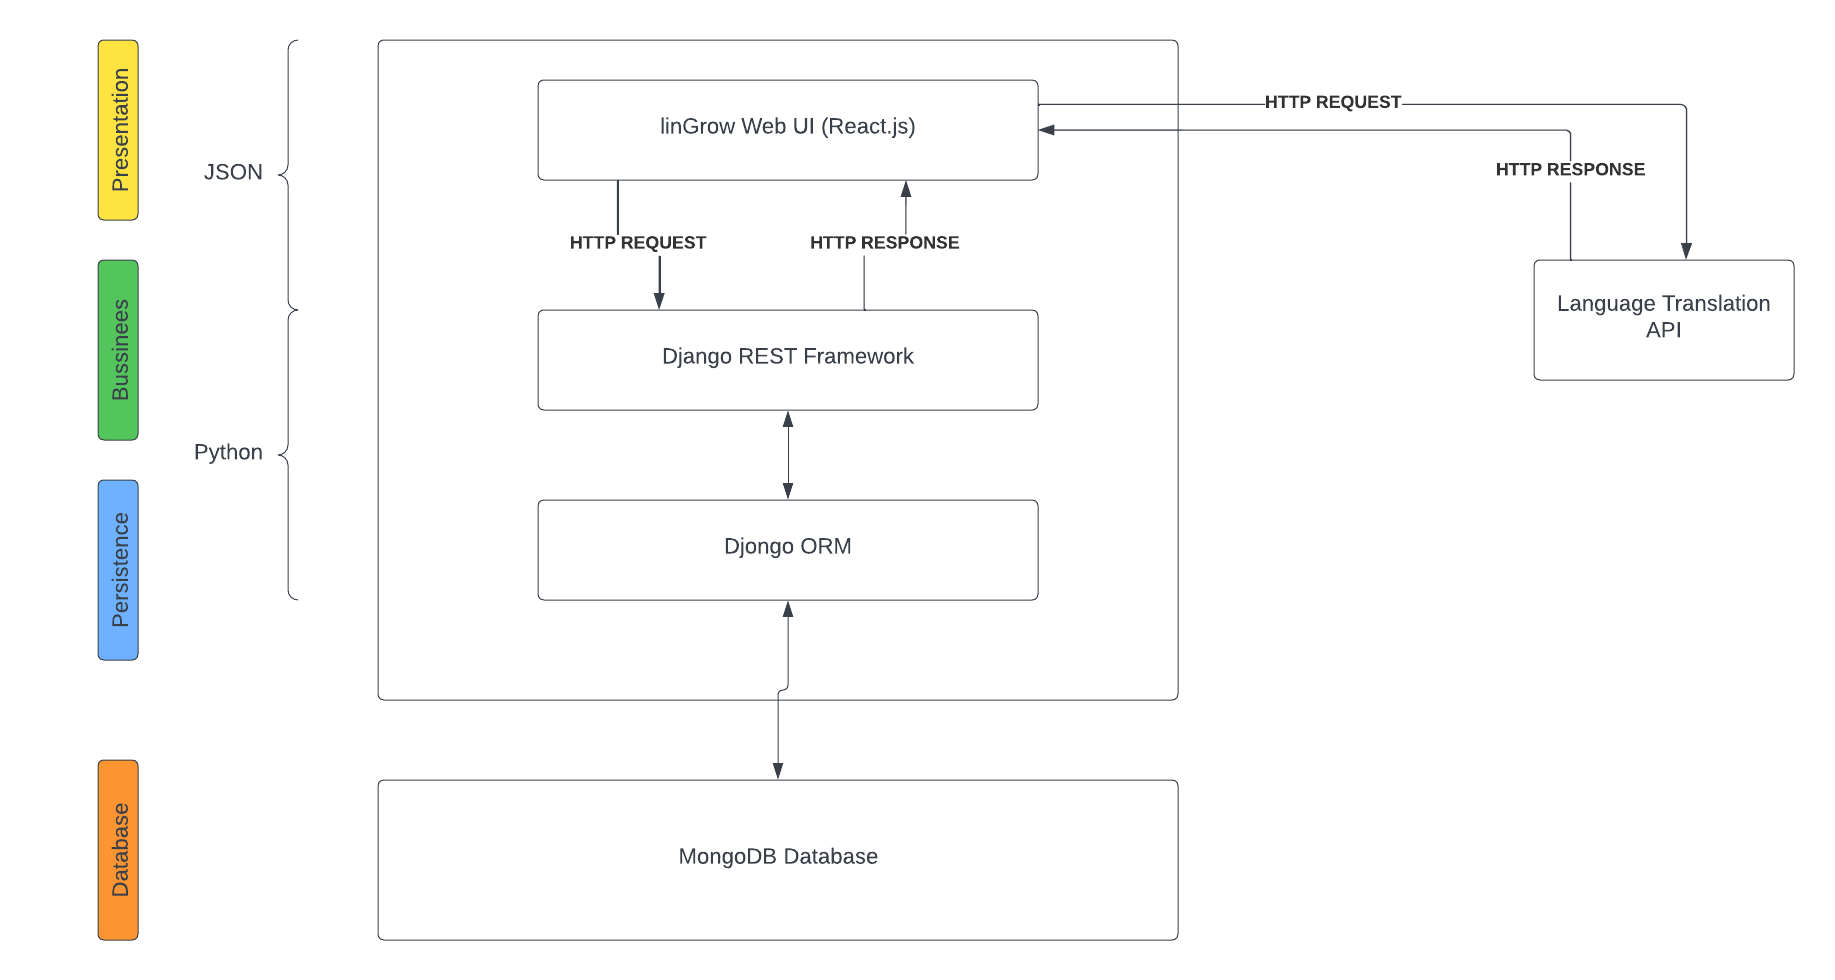
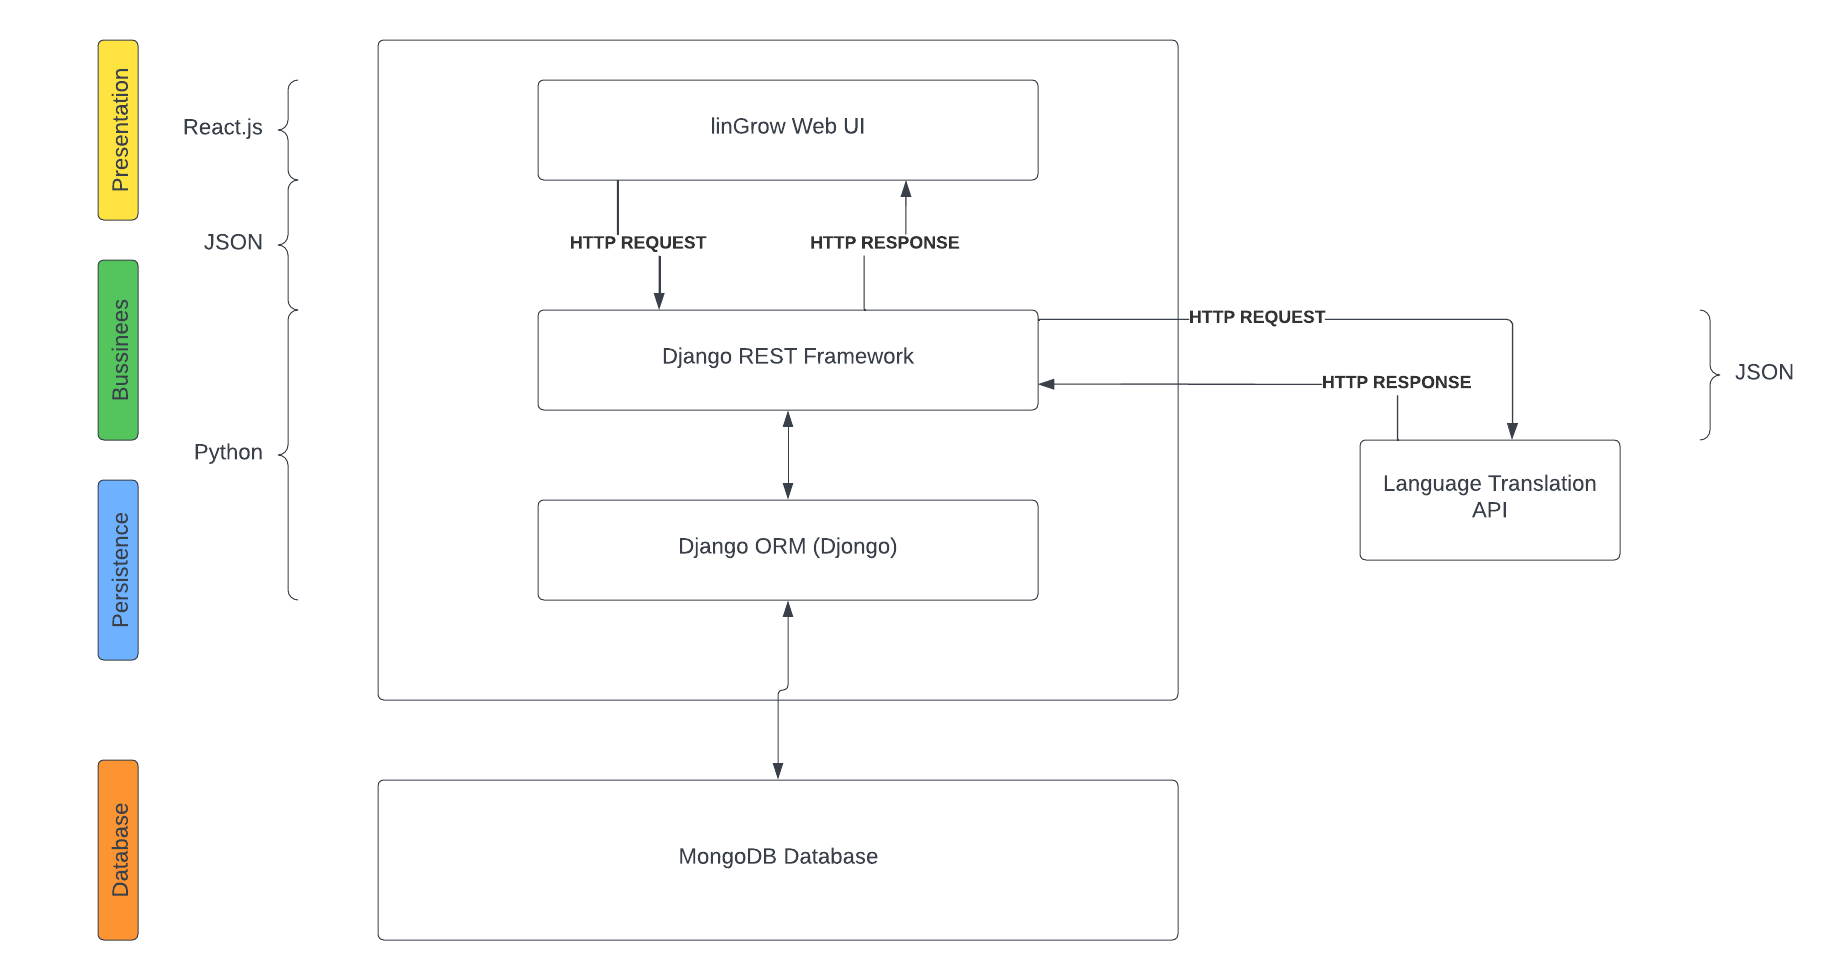
Update Docs
1) Update High Level Architecture
2) Update list of technical resources
3) Added User Stories to MoSCoW
4) Mapped User Stories to GitHub Issues

diff --git a/docs/index.md b/docs/index.md
@@ -37,7 +37,7 @@
 
 ## User Stories
 
-### User Stories 1 - Admin School Management
+### User Story 1 - Admin School Management [GitHub Link](https://github.com/UAlberta-CMPUT401/lingrow/issues/3)
 
 > **As** an admin, **I want** to be able to manage schools, **so that** I can add/delete/update schools.
 >
@@ -48,7 +48,7 @@
 > 3. Admin can edit a school.
 > 4. Non-Admin users cannot add/delete/edit schools.
 
-### User Stories 2 - Admin User Management
+### User Story 2 - Admin User Management [GitHub Link](https://github.com/UAlberta-CMPUT401/lingrow/issues/5)
 
 > **As** an admin, **I want** to be able to manage users, **so that** I can add/delete/update users.
 >
@@ -59,9 +59,9 @@
 > 3. Admin can edit a user.
 > 4. Non-Admin users cannot add/delete/edit users.
 
-### User Stories 3 - Admin Messaging
+### User Story 3 - Admin Messaging [GitHub Link](https://github.com/UAlberta-CMPUT401/lingrow/issues/8)
 
-> **As** an aAdmin, **I want** to be able to send mass messages to any group of users, **so that** I can inform them about updates to the app.
+> **As** an admin, **I want** to be able to send mass messages to any group of users, **so that** I can inform them about updates to the app.
 >
 > **Acceptance Tests:**
 >
@@ -70,7 +70,7 @@
 > 3. Message sent by Admin is marked as an Admin Message.
 > 4. Non-Admins cannot send messages marked as Admin messages.
 
-### User Stories 4 - Admin Group Users
+### User Story 4 - Admin Group Users [GitHub Link](https://github.com/UAlberta-CMPUT401/lingrow/issues/8)
 
 > **As** an Admin, **I want** to be able to group users, **so that** I can send messages to select groups.
 >
@@ -83,7 +83,7 @@
 > 5. Admin can delete a group they created.
 > 6. Non-admin users cannot create groups in the same way.
 
-### User Stories 5 - User Account Creation
+### User Story 5 - User Account Creation [GitHub Link](https://github.com/UAlberta-CMPUT401/lingrow/issues/15)
 
 > **As** a User, **I want** to be able to create an account, **so that** I can log into the web application and use its features.
 >
@@ -93,7 +93,7 @@
 > 2. User can sign in with their created credentials.
 > 3. User cannot create an account with the already used credentials.
 
-### User Stories 6 - User Logout
+### User Story 6 - User Logout [GitHub Link](https://github.com/UAlberta-CMPUT401/lingrow/issues/18)
 
 > **As** a User, **I want** to be able to logout of the web application, **so that** I can keep my information private and secure.
 >
@@ -102,7 +102,7 @@
 > 1. User can log out of the application.
 > 2. User when logged out cannot access their user info.
 
-### User Stories 7 - User Password Reset
+### User Story 7 - User Password Reset [GitHub Link](https://github.com/UAlberta-CMPUT401/lingrow/issues/17)
 
 > **As** a User, **I want** to be able reset my password, **so that** I am still able to access my account if I forgot my password.
 >
@@ -112,7 +112,7 @@
 > 2. User upon receiving a password reset prompt, can change it.
 > 3. User must use new password to sign in aftewards.
 
-### User Stories 8 - Non-Admin Message Sending
+### User Story 8 - Non-Admin Message Sending [GitHub Link](https://github.com/UAlberta-CMPUT401/lingrow/issues/12)
 
 > **As** a Parent/Teacher/Researcher **I want** to be able to send messages, **so that** I can communicate with others within the application.
 >
@@ -121,7 +121,7 @@
 > 1. User can compose a message to another selected user.
 > 2. User can send a composed message.
 
-### User Stories 9 - Non-Admin Message Reception
+### User Story 9 - Non-Admin Message Reception [GitHub Link](https://github.com/UAlberta-CMPUT401/lingrow/issues/14)
 
 > **As** a Parent/Teacher/Researcher **I want** to be able to receive messages, **so that** I can communicate with others within the application.
 >
@@ -131,7 +131,7 @@
 > 2. User can view messages received.
 > 3. User can compose a message to the sender of a received message.
 
-### User Stories 10 - Teacher/Researcher Search Parents
+### User Story 10 - Teacher/Researcher Search Parents [GitHub Link](https://github.com/UAlberta-CMPUT401/lingrow/issues/7)
 
 > **As** a Teacher/Researcher **I want** to be able to search for parents within a school, **so that** I can identify parents I associate with.
 >
@@ -140,7 +140,7 @@
 > 1. Teacher/Researcher can view parents in their selected school. 
 > 2. Teacher/Researcher can search their selected school for specific parents.
 
-### User Stories 11 - Teacher/Researcher Group Parents
+### User Story 11 - Teacher/Researcher Group Parents [GitHub Link](https://github.com/UAlberta-CMPUT401/lingrow/issues/21)
 
 > **As** a Teacher/Researcher **I want** to be able to create a group of parents based on their children's classroom, **so that** so that I can organize parents based on their children's classroom.
 >
@@ -151,7 +151,7 @@
 > 3. Teacher/Researcher can edit a group they created.
 > 4. Teacher/Researcher can delete a group they created.
 
-### User Stories 12 - Teacher/Researcher Important Flag
+### User Story 12 - Teacher/Researcher Important Flag [GitHub Link](https://github.com/UAlberta-CMPUT401/lingrow/issues/20)
 
 > **As** a Teacher/Researcher **I want** to be able to mark messages as important, **so that** parents understand when information I am communicating is critical.
 >
@@ -160,16 +160,16 @@
 > 1. Teacher/Researcher can mark a message as important before sending it. 
 > 2. Receiver of that message can see it marked as important.
 
-### User Stories 13 - Teacher/Researcher Mass Messaging
+### User Story 13 - Teacher/Researcher Mass Messaging [GitHub Link](https://github.com/UAlberta-CMPUT401/lingrow/issues/22)
 
-> **As** a Teacher/Researcher **I want** to be able to send mass messages to groups of parents, **so that** I can c.
+> **As** a Teacher/Researcher **I want** to be able to send mass messages to groups of parents, **so that** I can convey messagaes related toa group at once.
 >
 > **Acceptance Tests:**
 >
 > 1. Teacher/Researcher can send a message to multiple users at a time. 
 > 2. Receivers all receive the same message sent by the teacher/researcher.
 
-### User Stories 14 - Researcher Search Teachers
+### User Story 14 - Researcher Search Teachers [GitHub Link](https://github.com/UAlberta-CMPUT401/lingrow/issues/10)
 
 > **As** a Researcher **I want** to be able to search for teachers within a school, **so that** I can identify teachers I associate with.
 >
@@ -178,7 +178,7 @@
 > 1. Researcher can view teachers in their selected school. 
 > 2. Researcher can search their selected school for specific teachers.
 
-### User Stories 15 - Researcher Group Teachers
+### User Story 15 - Researcher Group Teachers [GitHub Link](https://github.com/UAlberta-CMPUT401/lingrow/issues/47)
 
 > **As** a Researcher **I want** to be able to create a group of teachers, **so that** so that I can organize multiple teachers I am working with.
 >
@@ -189,7 +189,7 @@
 > 3. Researcher can edit a group they created.
 > 4. Researcher can delete a group they created.
 
-### User Stories 16 - Parent App Translation
+### User Story 16 - Parent App Translation [GitHub Link](https://github.com/UAlberta-CMPUT401/lingrow/issues/4)
 
 > **As** a Parent **I want** to be able to translate text within the app to a more familiar language, **so that** I am able to read and understand the information the application is communicating to me.
 >
@@ -198,7 +198,7 @@
 > 1. Parent can without needing to read text select another lanaguage to translate the application to. 
 > 2. All intentionally readable text is translated to a specific language when selected.
 
-### User Stories 17 - User Message Translation
+### User Story 17 - User Message Translation [GitHub Link](https://github.com/UAlberta-CMPUT401/lingrow/issues/2)
 
 > **As** a User **I want** to be able to translate received messages to a language I am more familiar with, **so that** I am able to read and understand the received message better.
 >
@@ -207,7 +207,7 @@
 > 1. User can when viewing a message select another language for it to be translated into. 
 > 2. Message is translated when another language is selected.
 
-### User Stories 18 - Parent Pictograms
+### User Story 18 - Parent Pictograms [GitHub Link](https://github.com/UAlberta-CMPUT401/lingrow/issues/13)
 
 > **As** a Parent **I want** to be able to see pictograms to help me identify important information, **so that** I can more easily understand the associated concepts.
 >
@@ -216,7 +216,7 @@
 > 1. Pictograms are visible in the application to parents. 
 > 2. Pictograms are placed with their relevant activities/information.
 
-### User Stories 19 - Parent Speech to Text
+### User Story 19 - Parent Speech to Text [GitHub Link](https://github.com/UAlberta-CMPUT401/lingrow/issues/6)
 
 > **As** a Parent **I want** to be able to use Speech-to-Text, **so that** I can compose a message without the need for understanding written english grammar.
 >
@@ -226,7 +226,7 @@
 > 2. Typing is disabled while Speech-to-Text is active.
 > 3. Speech is properly interpreted by the program.
 
-### User Stories 20 - Parent Text to Speech
+### User Story 20 - Parent Text to Speech [GitHub Link](https://github.com/UAlberta-CMPUT401/lingrow/issues/9)
 
 > **As** a Parent **I want** to be able to use Text-to-Speech, **so that** I can understand written information as though it was spoken.
 >
@@ -235,7 +235,7 @@
 > 1. Text-to-Speech is an option for all text within the application.
 > 2. Parents are able to activate the Text-to-Speech for whichever text they would like to listen to.
 
-### User Stories 21 - Parent Voicemail Messaging
+### User Story 21 - Parent Voicemail Messaging [GitHub Link](https://github.com/UAlberta-CMPUT401/lingrow/issues/19)
 
 > **As** a Parent **I want** to be able to send and receive voicemail through messages, **so that** I can communicate with audio instead of text.
 >
@@ -244,7 +244,7 @@
 > 1. Parents able to send voice recordings through messages.
 > 2. Parents are able to receive voice recordings through messages.
 
-### User Stories 22 - Parent Video Call Messaging
+### User Story 22 - Parent Video Call Messaging [GitHub Link](https://github.com/UAlberta-CMPUT401/lingrow/issues/16)
 
 > **As** a Parent **I want** to be able to send and receive video messages, **so that** I can communicate with non-verbal/textual cues alongside verbal.
 >
@@ -253,7 +253,7 @@
 > 1. Parents able to send videos through messages.
 > 2. Parents are able to receive videos through messages.
 
-### User Stories 23 - Parent English Learning Activities
+### User Story 23 - Parent English Learning Activities [GitHub Link](https://github.com/UAlberta-CMPUT401/lingrow/issues/11)
 
 > **As** a Parent **I want** to be able to view and English Learning Activities, **so that** I can support language development within my family.
 >
@@ -262,9 +262,9 @@
 > 1. English Learning Activities are provided within the application for parents.
 > 2. These English Learning Activities are available in multiple languages.
 
-### User Stories 24 - Parent Simple English
+### User Story 24 - Parent Simple English [GitHub Link](https://github.com/UAlberta-CMPUT401/lingrow/issues/48)
 
-> **As** a Parent **I want** the application to be written in simple english phrases, **so that** when I translate the applcation there are as few translation errors as possible.
+> **As** a Parent **I want** the application to be written in simple english phrases, **so that** when I translate the application there are as few translation errors as possible.
 >
 > **Acceptance Tests:**
 >
@@ -272,37 +272,72 @@
 > 2. The application does not use complex phrases or words.
 > 3. The application does not use english sayings or idioms.
 
+### User Story 25 - Invite Users [GitHub Link](https://github.com/UAlberta-CMPUT401/lingrow/issues/49)
+> **As** a Teacher **I want** to send invite links to group of parents, **so that** parents can easily sign up for the app.
+>
+> **Acceptance Tests:**
+>
+
 ---
 
 ## MoSCoW
 
 ### Must Have
 
-* Text messaging
-* Account (researcher/teacher/parent/admin)
-* Parent grouping for researcher/teacher
-* App-wide translation
-* Language-development activities
 * School management for admins
+    - (User Story 1) **As** an admin, **I want** to be able to manage schools, **so that** I can add/delete/update schools.
+* Text Messaging
+    - (User Story 8) **As** a Parent/Teacher/Researcher **I want** to be able to send messages, **so that** I can communicate with others within the application.
+    - (User Story 9) **As** a Parent/Teacher/Researcher **I want** to be able to receive messages, **so that** I can communicate with others within the application.
+* Account (researcher/teacher/parent/admin)
+    - (User Story 5) **As** a User, **I want** to be able to create an account, **so that** I can log into the web application and use its features.
+    - (User Story 6) **As** a User, **I want** to be able to logout of the web application, **so that** I can keep my information private and secure.
+* Parent search/grouping for researcher/teacher
+    - (User Story 10) **As** a Teacher/Researcher **I want** to be able to search for parents within a school, **so that** I can identify parents I associate with.
+    - (User Story 11) **As** a Teacher/Researcher **I want** to be able to create a group of parents based on their children's classroom, **so that** so that I can organize parents based on their children's classroom.
+* App-wide translation
+    - (User Story 16) **As** a Parent **I want** to be able to translate text within the app to a more familiar language, **so that** I am able to read and understand the information the application is communicating to me. 
+    - (User Story 17) **As** a User **I want** to be able to translate received messages to a language I am more familiar with, **so that** I am able to read and understand the received message better.
+* Language-development activities
+    - (User Story 23) **As** a Parent **I want** to be able to view and English Learning Activities, **so that** I can support language development within my family.
+
 
 ### Should Have
 
-* Group messaging functionality
 * User management for admins
-* Pictogram
+    - (User Story 2) **As** an admin, **I want** to be able to manage users, **so that** I can add/delete/update users.
+    - (User Story 4) **As** an Admin, **I want** to be able to group users, **so that** I can send messages to select groups.
+* Group messaging functionality
+    - (User Story 3) **As** an aAdmin, **I want** to be able to send mass messages to any group of users, **so that** I can inform them about updates to the app.
+    - (User Story 13) **As** a Teacher/Researcher **I want** to be able to send mass messages to groups of parents, **so that** I can convey messagaes related toa group at once.
 * Simple English guidelines
+    - (User Story 14) **As** a Parent **I want** the application to be written in simple english phrases, **so that** when I translate the applcation there are as few translation errors as possible.
+* Pictogram
+    - (User Story 18) **As** a Parent **I want** to be able to see pictograms to help me identify important information, **so that** I can more easily understand the associated concepts.
+* User Password Reset
+    - (User Story 7) **As** a User, **I want** to be able reset my password, **so that** I am still able to access my account if I forgot my password.
+* Simple English 
+    - (User Story 24) **As** a Parent **I want** the application to be written in simple english phrases, **so that** when I translate the applcation there are as few translation errors as possible.
 
 ### Could Have
 
+* Reseracher parent grouping
+    - (User Story 15) **As** a Researcher **I want** to be able to create a group of teachers, **so that** so that I can organize multiple teachers I am working with.
 * Invite links for parent group
+    - (User Story 25) **As** a Teacher **I want** to send invite links to group of parents, **so that** parents can easily sign up for the app.
 * Mark messages as important
+    - (User Story 12) **As** a Teacher/Researcher **I want** to be able to mark messages as important, **so that** parents understand when information I am communicating is critical.
 * Text-to-speech
+    - (User Story 20) **As** a Parent **I want** to be able to use Text-to-Speech, **so that** I can understand written information as though it was spoken.
 
 ### Would Like But Won't Get
 
-* Video messaging
-* Voice messaging
 * Speech-to-text
+    - (User Story 19) **As** a Parent **I want** to be able to use Speech-to-Text, **so that** I can compose a message without the need for understanding written english grammar.
+* Voice messaging
+    - (User Story 21) **As** a Parent **I want** to be able to send and receive voicemail through messages, **so that** I can communicate with audio instead of text.
+* Video messaging
+    - (User Story 22) **As** a Parent **I want** to be able to send and receive video messages, **so that** I can communicate with non-verbal/textual cues alongside verbal.
 
 ---
 
@@ -458,14 +493,47 @@
 
 ### Backend - Django REST, MongoDB
 
-- [Django REST Documentation](https://www.django-rest-framework.org/tutorial/quickstart/)
-- [MongoDB Documentation](https://www.mongodb.com/docs/)
-- [Django - MongoDB Integration](https://www.mongodb.com/compatibility/mongodb-and-django)
+- Django REST Framework
+    - Documentation
+        - [Official Documentation](https://www.django-rest-framework.org/tutorial/quickstart/)
+    - Tutorials
+        - [YouTube Tutorial](https://www.youtube.com/watch?v=c708Nf0cHrs)
+        - [CMPUT 401 Tutorial](https://github.com/UAlberta-CMPUT401/tutorial-django-todo-backend)
+    - Troubleshoot
+        - [Stack Exchange](https://stackexchange.com/search?q=django+rest+framework)
+
+- MongoDB
+    - Documentation
+        - [Official Documentation](https://www.mongodb.com/docs/)
+        - [MongoDb Django Integration](https://www.mongodb.com/compatibility/mongodb-and-django)
+    - Connect Django with MongoDB
+        - [YouTube Tutorial 1](https://www.youtube.com/watch?v=MiS6y9kffBs)
+        - [YouTube Tutorial 2](https://www.youtube.com/watch?v=MiS6y9kffBs)
+    - Troubleshoot
+        - [Stack Exchange (Djongo)](https://stackexchange.com/search?q=djongo)
+        - [Stack Exchange (Django MongoDb)](https://stackexchange.com/search?q=django+mongodb)
 
 ### Frontend - React
 
-- [React Documentation](https://reactjs.org/docs/getting-started.html)
+- React
+    - Documentation
+        - [Official Documentation](https://reactjs.org/docs/getting-started.html)
+    - Tutorials
+        - [Digital Ocean (Django & React)](https://www.digitalocean.com/community/tutorials/build-a-to-do-application-using-django-and-react)
+        - [YouTube Playlist (Django & React)](https://www.youtube.com/playlist?list=PLzMcBGfZo4-kCLWnGmK0jUBmGLaJxvi4j)
+        - [Basic Hello World App (Django & React)](https://www.youtube.com/watch?v=F9o4GSkSo40)
+        - [CMPUT 401 Tutorial](https://github.com/UAlberta-CMPUT401/tutorial-react-todo-frontend)
+    - Troubleshoot
+        - [Stack Exchange](https://stackoverflow.com/search?q=react+django&searchOn=3)
 
 ### Deployment - Cybera
 
-- [Cybera Documentation](https://wiki.cybera.ca/#all-updates)
+- Documentation
+    - [Cybera Documentation](https://wiki.cybera.ca/#all-updates)
+    - [Apache2 Django](https://docs.djangoproject.com/en/4.1/howto/deployment/wsgi/modwsgi/)
+- Tutorial
+    - [Deploy Django Linux Server Apache2](https://www.youtube.com/watch?v=Sa_kQheCnds)
+    - [Cybera CMPUT 401 Tutorial](https://docs.google.com/presentation/d/13Yr9jvl5jKX5PNauNx9JuMUOOhiuaQ2BtB3ig4UXcWw/edit?usp=sharing)
+    - [Cyber Screencast](https://www.youtube.com/watch?v=jv4D8I_AwTQ)
+- Troubleshoot
+    - [Stack Exchange](https://stackoverflow.com/search?q=django+linux+server&searchOn=3)
